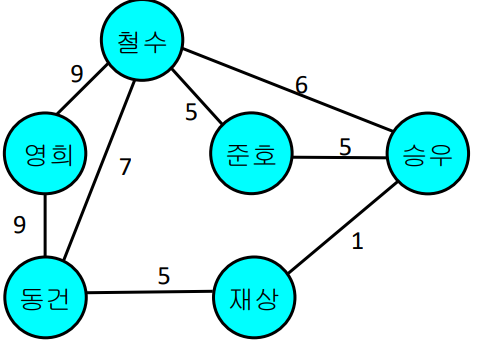
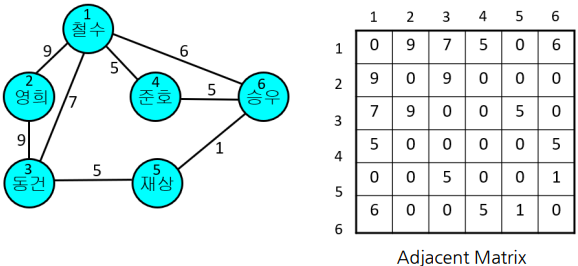
docs: ch11_Graph.md, ch12_Greedy.md 내용 추가 및 보완 완료

diff --git a/ComputerScience/Algorithm/ch11_Graph.md b/ComputerScience/Algorithm/ch11_Graph.md
@@ -6,7 +6,9 @@
 >
 > 2절. 깊이 우선 탐색
 >
-> 3절.
+> 3절. 최소 신장 트리
+>
+> 4절. 최단 경로
 
 ## 0절. 개요
 
@@ -20,36 +22,251 @@
 - 간선(Edge) : 정점 간 관계
 - 인접(Adjacent) : 두 정점이 간선으로 연결된 경우
 
+### 인접 행렬(Adjacent Matrix)
+
+- 정점(Vertex의 총 수 : N)
+  - N ⅹ N 행렬 표현
+    - 원소 (i, j) = 1 : 정점 i와 정점 j 사이 간선 존재
+    - 원소 (i, j) = 0 : 정점 i와 정점 j 사이 간선 미존재
+  - 유향 그래프
+    - 원소 (i, j) : 정점 i로부터 정점 j로 연결되는 간선이 있는가?
+  - 가중치 그래프
+    - 원소 (i, j) : 1 대신 가중치
+
 ### 예시
 
 - 친분 관계 그래프
 
-<img src = "https://github.com/BangYunseo/TIL/blob/main/ComputerScience/Algorithm/Image/ch03/ch11-01-BG.PNG" width="100%" height="auto" />
+<img src = "https://github.com/BangYunseo/TIL/blob/main/ComputerScience/Algorithm/Image/ch11/ch11-01-BG.PNG" height="auto" />
 
 - 친분 관계 그래프 + 가중치
 
-<img src = "https://github.com/BangYunseo/TIL/blob/main/ComputerScience/Algorithm/Image/ch03/ch11-02-BGW.PNG" width="100%" height="auto" />
+<img src = "https://github.com/BangYunseo/TIL/blob/main/ComputerScience/Algorithm/Image/ch11/ch11-02-BGW.PNG" height="auto" />
 
 - 친분 관계 그래프 + 방향
   - 유향 그래프(Directed Graph)
 
-<img src = "https://github.com/BangYunseo/TIL/blob/main/ComputerScience/Algorithm/Image/ch03/ch11-03-BGD.PNG" width="100%" height="auto" />
+<img src = "https://github.com/BangYunseo/TIL/blob/main/ComputerScience/Algorithm/Image/ch11/ch11-03-BGD.PNG" height="auto" />
 
 - 친분 관계 그래프 + 가중치 + 방향
   - 유향 그래프(Directed Graph)
 
-<img src = "https://github.com/BangYunseo/TIL/blob/main/ComputerScience/Algorithm/Image/ch03/ch11-04-BGWD.PNG" width="100%" height="auto" />
+<img src = "https://github.com/BangYunseo/TIL/blob/main/ComputerScience/Algorithm/Image/ch11/ch11-04-BGWD.PNG" height="auto" />
 
-### 인접 행렬(Adjacent Matrix)
+### 인접 리스트(Adjacent List)
 
-(여기부터 작성!)
+- N개의 연결 리스트 표현
+- i번째 리스트 : 정점 i에 인접한 정점들을 리스트로 연결
+- 가중치 그래프
+  - 리스트에 가중치도 보관
 
-- 정점
+### 예시
+
+- 친분 관계 그래프
+
+<img src = "https://github.com/BangYunseo/TIL/blob/main/ComputerScience/Algorithm/Image/ch11/ch11-05-BG2.PNG" height="auto" />
+
+- 친분 관계 그래프 + 가중치
+
+<img src = "https://github.com/BangYunseo/TIL/blob/main/ComputerScience/Algorithm/Image/ch11/ch11-06-BGW2.PNG" height="auto" />
+
+### 너비 우선 탐색과 깊이 우선 탐색
+
+- 그래프에서 모든 정점을 방문하는 가장 기본적인 탐색 알고리즘
+- 시간 복잡도(Time Complexity)
+  - O(V + E)
+
+|   탐색 종류    | 영문 약어 |         영문         |
+| :------------: | :-------: | :------------------: |
+| 너비 우선 탐색 |    BFS    | Breadth First Search |
+| 깊이 우선 탐색 |    DFS    |  Depth First Search  |
 
 ## 1절. 너비 우선 탐색
 
 ### 너비 우선 탐색(BFS : Breadth First Search)
 
+<img src = "https://github.com/BangYunseo/TIL/blob/main/ComputerScience/Algorithm/Image/ch11/ch11-07-BFS.PNG" height="auto" />
+
+- Breadth = broad / wide
+- 자료구조
+  - 큐(queue : FIFO)
+- 수행 시간
+  - $θ(|V| + |E|)$
+
+### 너비 우선 탐색 과정
+
+<img src = "https://github.com/BangYunseo/TIL/blob/main/ComputerScience/Algorithm/Image/ch11/ch11-08-BFSProcess.PNG" height="auto" />
+
+- 값 출력 순서
+  - 1, 2, 3, 4, 5, 6, 7, 8
+
+### 너비 우선 탐색 알고리즘
+
+<img src = "https://github.com/BangYunseo/TIL/blob/main/ComputerScience/Algorithm/Image/ch11/ch11-09-BFSalgorithm.PNG" height="auto" />
+
 ## 2절. 깊이 우선 탐색
 
 ### 깊이 우선 탐색(DFS : Depth First Search)
+
+<img src = "https://github.com/BangYunseo/TIL/blob/main/ComputerScience/Algorithm/Image/ch11/ch11-10-DFS.PNG" height="auto" />
+
+- Depth = vertical before horizontal
+- 자료구조
+  - Stack(FILO)
+- 수행 시간
+  - $θ(|V| + |E|)$
+
+### 깊이 우선 탐색 과정
+
+<img src = "https://github.com/BangYunseo/TIL/blob/main/ComputerScience/Algorithm/Image/ch11/ch11-11-DFSProcess.PNG" height="auto" />
+
+<img src = "https://github.com/BangYunseo/TIL/blob/main/ComputerScience/Algorithm/Image/ch11/ch11-12-DFSProcess2.PNG" height="auto" />
+
+- 값 출력 순서
+  - 5, 4, 3, 2, 7, 6, 8, 1
+
+## 3절. 최소 신장 트리
+
+### 최소 신장 트리(MST : Minimum Spanning Tree)
+
+<img src = "https://github.com/BangYunseo/TIL/blob/main/ComputerScience/Algorithm/Image/ch11/ch11-13-MST.PNG" height="auto" />
+
+- 간선 가중치의 합이 가장 작은 트리
+
+#### 트리(Tree)
+
+- 싸이클이 없는 연결 그래프
+- N 개의 정점을 가지는 트리가 N - 1개의 간선 보유
+
+#### 신장 트리(Spanning Tree)
+
+- 그래프 G(V, E)에서 정점 집합 V를 그대로 두고 간선을 |V| - 1개만 남겨 트리 생성(|V| = N)
+- ex) 너비 우선 트리, 깊이 우선 트리
+
+### Prim's Algorithm
+
+<img src = "https://github.com/BangYunseo/TIL/blob/main/ComputerScience/Algorithm/Image/ch11/ch11-14-Prim.PNG" height="auto" />
+
+- 그리디 알고리즘의 일종
+  - 드물게 최적해 보장
+- 수행 시간
+  - 최소 가중치 탐색 시 힙(Heap) 사용
+  - $O(|E|log|V|)$
+
+### Prim 알고리즘 구조
+
+<img src = "https://github.com/BangYunseo/TIL/blob/main/ComputerScience/Algorithm/Image/ch11/ch11-15-PrimAlgorithm.PNG" height="auto" />
+
+### Kruskal's Algorithm
+
+<img src = "https://github.com/BangYunseo/TIL/blob/main/ComputerScience/Algorithm/Image/ch11/ch11-16-Kruskal.PNG" height="auto" />
+
+- 그리디 알고리즘의 일종
+  - 드물게 최적해 보장
+- 수행 시간
+  - $O(|E|log|V|)$
+
+### Kruskal 알고리즘 구조
+
+<img src = "https://github.com/BangYunseo/TIL/blob/main/ComputerScience/Algorithm/Image/ch11/ch11-17-KruskalAlgorithm.PNG" height="auto" />
+
+### Kruskal 알고리즘 예시
+
+<img src = "https://github.com/BangYunseo/TIL/blob/main/ComputerScience/Algorithm/Image/ch11/ch11-18-Kruskalex.PNG" height="auto" />
+
+- 정답
+
+<img src = "https://github.com/BangYunseo/TIL/blob/main/ComputerScience/Algorithm/Image/ch11/ch11-19-KruskalAnswer.PNG" height="auto" />
+
+## 4절. 최단 경로
+
+### 최단 경로
+
+- 단일 시작점으로부터 각 정점에 이르는 최단 경로
+- 그래프 G(V, E) 시작 노드 s에서 목적지 d의 연결 비용 합이 최소인 가중치 집합 C 계산
+
+### 최단 경로 조건
+
+- 간선 가중치가 있는 유향 그래프
+- 무향 그래프의 경우
+  - 각 간선에 대해 양쪽으로 유향 간선이 있는 유향 그래프로 간주
+  - 즉, 무향 간선(u, v)는 유향 간선 (u, v)와 (v, u)를 의미
+
+### 두 정점 사이 최단 경로
+
+- 두 정점 사이 경로들 중 간선 가중치 합이 최소인 경로
+- 간선 가중치의 합이 음인 싸이클이 존재하면 문제 정의 X
+
+### 최단 경로 종류
+
+|          종류          |           영문           | 설명                                                                                               |
+| :--------------------: | :----------------------: | :------------------------------------------------------------------------------------------------- |
+|  다익스트라 알고리즘   |   Dijkstra's Algorithm   | 한 정점에서 다른 모든 정점까지의 최단 경로<br>음의 가중치를 허용하지 않는 최단 경로                |
+|   벨만포드 알고리즘    | Bellman-Ford's Algorithm | 한 정점에서 다른 모든 정점까지의 최단 경로<br>음의 가중치를 허용하는 최단 경로                     |
+| 플로이드-워샬 알고리즘 | Floyd-Warshall Algorithm | 모든 정점에서 다른 모든 정점까지, 음의 가중치를 가진 최단 경로<br>싸이클이 없는 그래프의 최단 경로 |
+
+### 다익스트라 알고리즘(Dijkstra's Algorithm)
+
+<img src = "https://github.com/BangYunseo/TIL/blob/main/ComputerScience/Algorithm/Image/ch11/ch11-20-DAex.PNG" height="auto" />
+
+- 모든 간선 가중치는 양수
+- 수행 시간
+  - 힙 이용
+  - $O(|E|log|V|)$
+
+### 다익스트라 알고리즘 구조
+
+<img src = "https://github.com/BangYunseo/TIL/blob/main/ComputerScience/Algorithm/Image/ch11/ch11-21-DAS.PNG" height="auto" />
+
+### 다익스트라 알고리즘 과정
+
+<img src = "https://github.com/BangYunseo/TIL/blob/main/ComputerScience/Algorithm/Image/ch11/ch11-22-DAP1.PNG" height="auto" />
+
+<img src = "https://github.com/BangYunseo/TIL/blob/main/ComputerScience/Algorithm/Image/ch11/ch11-23-DAP2.PNG" height="auto" />
+
+### 잘못된 다익스트라 알고리즘 : 음수 가중치
+
+<img src = "https://github.com/BangYunseo/TIL/blob/main/ComputerScience/Algorithm/Image/ch11/ch11-24-BadDA.PNG" height="auto" />
+
+### 벨만포드 알고리즘(Bellman Ford's Algorithm)
+
+- $d_t^k$ : 중간에 최대 k개 간선을 거쳐 정점 r로부터 정점 t에 이르는 최단 거리
+- 목표 : $d_t^{n-1}$
+- 수행 시간
+  - $θ(|E||V|)$
+- 재귀적 관계
+
+<img src = "https://github.com/BangYunseo/TIL/blob/main/ComputerScience/Algorithm/Image/ch11/ch11-25-SelfBA.PNG" height="auto" />
+
+### 벨만포드 알고리즘 구조
+
+<img src = "https://github.com/BangYunseo/TIL/blob/main/ComputerScience/Algorithm/Image/ch11/ch11-26-BAS.PNG" height="auto" />
+
+### 벨만포드 알고리즘 과정
+
+<img src = "https://github.com/BangYunseo/TIL/blob/main/ComputerScience/Algorithm/Image/ch11/ch11-27-BAP1.PNG" height="auto" />
+
+<img src = "https://github.com/BangYunseo/TIL/blob/main/ComputerScience/Algorithm/Image/ch11/ch11-28-BAP2.PNG" height="auto" />
+
+### 플로이드-워샬 알고리즘(Floyd-Warshall Algorithm)
+
+<img src = "https://github.com/BangYunseo/TIL/blob/main/ComputerScience/Algorithm/Image/ch11/ch11-29-FWA.PNG" height="auto" />
+
+- 모든 정점 간 상호 최단거리 계산
+- 음의 가중치 허용
+- 수행 시간
+  - $θ(|V|^3)$
+  - 문제의 총 수 : $θ(|V|^3)$, 각 문제 계산 : $θ(1)$
+    (여기부터 작성)
+
+### 플로이드-워샬 알고리즘 구조
+
+<img src = "https://github.com/BangYunseo/TIL/blob/main/ComputerScience/Algorithm/Image/ch11/ch11-30-FWAS.PNG" height="auto" />
+
+### 플로이드-워샬 알고리즘 과정
+
+<img src = "https://github.com/BangYunseo/TIL/blob/main/ComputerScience/Algorithm/Image/ch11/ch11-31-FWAP1.PNG" height="auto" />
+
+<img src = "https://github.com/BangYunseo/TIL/blob/main/ComputerScience/Algorithm/Image/ch11/ch11-32-FWA2.PNG" height="auto" />
+
+<img src = "https://github.com/BangYunseo/TIL/blob/main/ComputerScience/Algorithm/Image/ch11/ch11-33-FWA3.PNG" height="auto" />

diff --git a/ComputerScience/Algorithm/ch12_Greedy.md b/ComputerScience/Algorithm/ch12_Greedy.md
@@ -89,16 +89,39 @@
 
 > (3, 5), (1, 6), (6, 7), (5, 9), (8, 13), (7, 14), (12, 18), (16, 20)
 >
-> (3,5): 첫 번째 선택  
-> (1,6): (3,5)와 겹치므로 선택 X  
-> (6,7): (3,5)와 겹치지 않으므로 선택합니다.  
-> (5,9): (6,7)과 겹치므로 선택하지 않습니다.  
-> (8,13): (6,7)과 겹치지 않으므로 선택합니다.  
-> (7,14): (8,13)과 겹치므로 선택하지 않습니다.  
-> (12,18): (8,13)과 겹치므로 선택하지 않습니다.  
-> (16,20): (8,13)과 겹치지 않으므로 선택  
-> => 최적해 :
+> (3, 5) : 첫 번째 선택  
+> (1, 6) : 미선택 : (3, 5)와 겹침
+> (6, 7) : 두 번째 선택
+> (5, 9) : 미선택 : (6, 7)과 겹침
+> (8, 13) : 세 번째 선택
+> (7, 14) : 미선택 : (8, 13)과 겹침
+> (12, 18) : 미선택 : (8, 13)과 겹침
+> (16, 20) : 네 번째 선택
+>
+> => 최적해 : (3, 5), (6, 7), (8, 13), (16, 20)
 
 #### 호프만 코딩(Huffman Coding)
 
--
+<img src = "https://github.com/BangYunseo/TIL/blob/main/ComputerScience/Algorithm/Image/ch12/ch12-06-HC.PNG" width="100%" height="auto" />
+
+- Lossless Data Compression Algorithm
+  - 무손실 데이터 압축 알고리즘
+  - 데이터 압축 후 원래의 정보를 완벽하게 복원 가능
+- Optimal Prefix Code
+  - 최적 접두어 코드
+  - 주어진 데이터에 가장 효율적인(최소 길이) 접두어 코드 생성성
+- Variable-Length Code table for Encoding a source symbol
+  - 인코딩을 위한 가변 길이 코드 테이블
+  - ex) 파일 내 문자
+
+#### 호프만 코딩 예시 (1)
+
+<img src = "https://github.com/BangYunseo/TIL/blob/main/ComputerScience/Algorithm/Image/ch12/ch12-07-HC2.PNG" width="100%" height="auto" />
+
+- 어떤 Code도 다른 코드의 접두어가 되지 않음
+
+#### 호프만 코딩 예시 (2)
+
+<img src = "https://github.com/BangYunseo/TIL/blob/main/ComputerScience/Algorithm/Image/ch12/ch12-08-HC3.PNG" width="100%" height="auto" />
+
+- 예시문 : this is an example of a huffman tree
